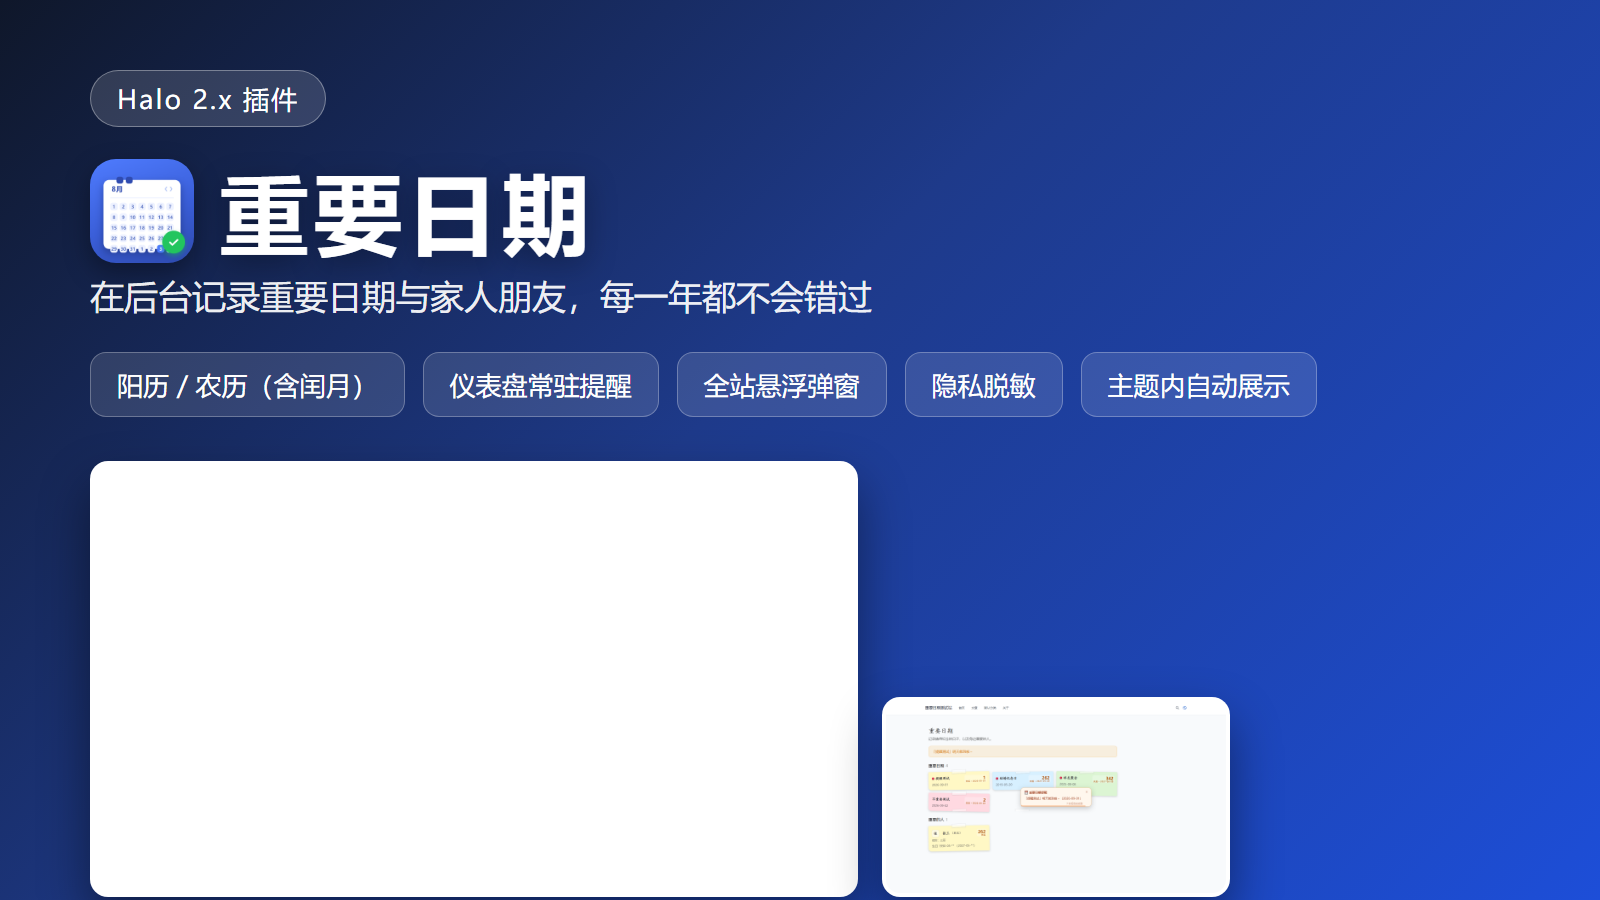
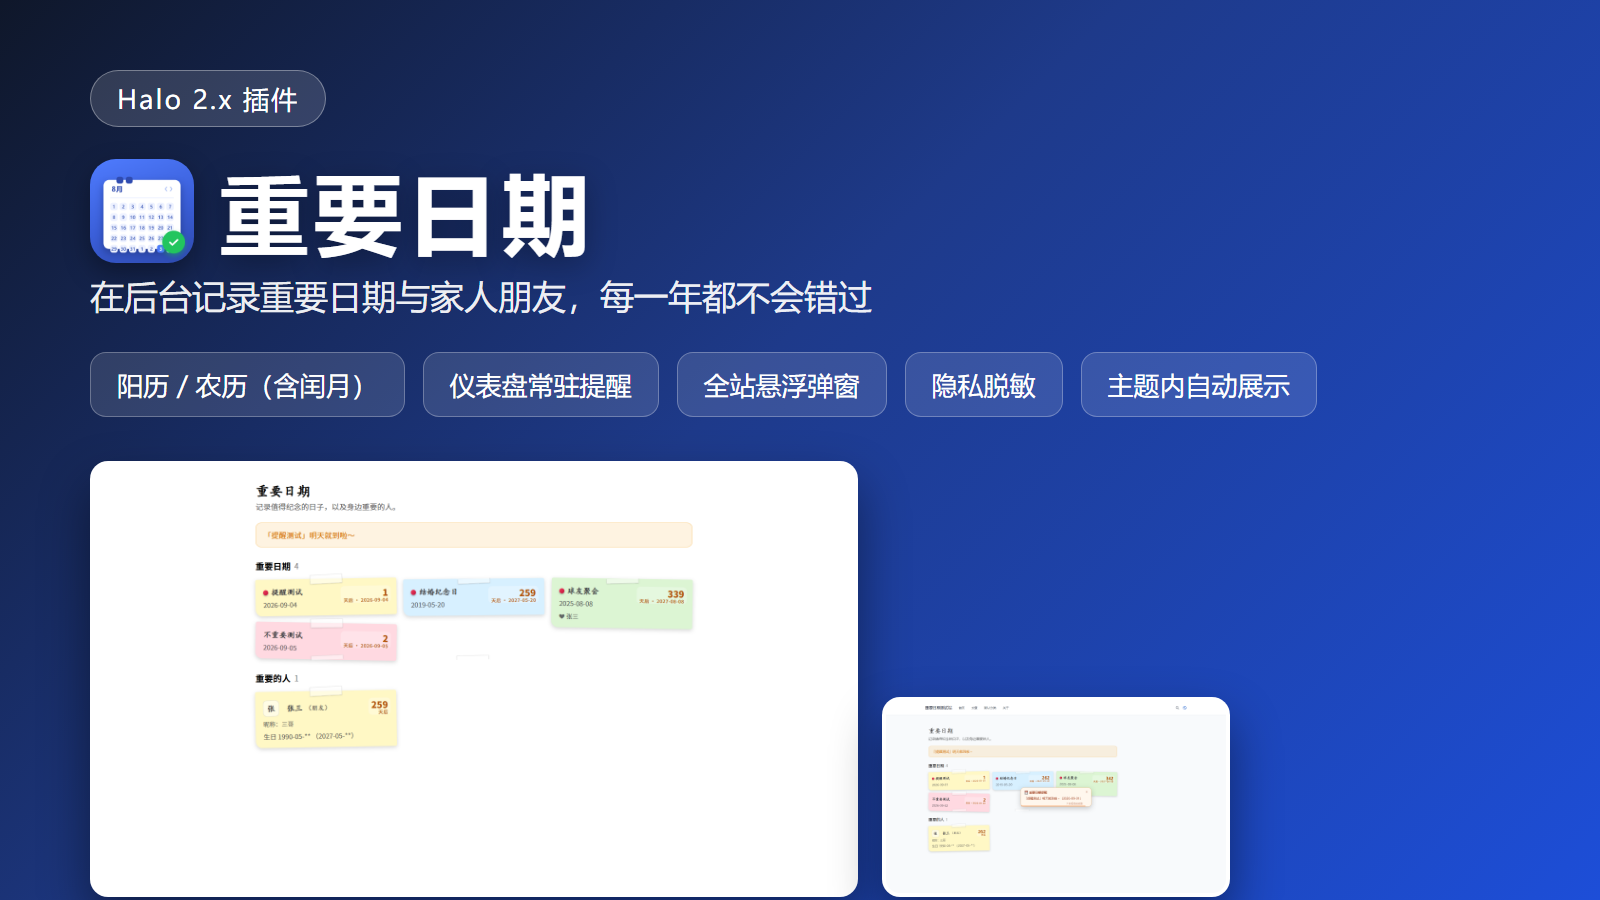
feat: v1.1.3 前台页面升级为官方页面布局契约(layout :: html)——主题支持契约时自动复用主题外壳,否则 Halo fallback;兼容范围统一 >=2.26.0(2.26 全新实例 36/36)

Changed region(s): [[0.1562, 0.5289, 0.4375, 0.84]]

diff --git a/src/main/resources/templates/important-dates.html b/src/main/resources/templates/important-dates.html
@@ -1,9 +1,9 @@
 <!doctype html>
-<html xmlns:th="https://www.thymeleaf.org" th:lang="${#locale.toLanguageTag}" lang="zh-CN">
-  <head>
-    <meta charset="UTF-8" />
-    <meta name="viewport" content="width=device-width, initial-scale=1, maximum-scale=2" />
+<html xmlns:th="https://www.thymeleaf.org"
+  th:replace="~{layout :: html(head = ~{::head}, content = ~{::content})}">
+  <th:block th:fragment="head">
     <title th:text="${title}">重要日期</title>
+    <meta name="viewport" content="width=device-width, initial-scale=1, maximum-scale=2" />
     <style>
       .id-wrap{max-width:920px;margin:0 auto;padding:24px 16px 8px;}
       .id-hero{padding:6px 0 2px;}
@@ -35,10 +35,9 @@
       .id-remind{background:rgba(245,158,11,.12);border:1px solid rgba(245,158,11,.35);border-radius:12px;padding:10px 16px;margin-bottom:14px;}
       .id-remind-item{color:#d97706;line-height:1.9;}
       @media (prefers-color-scheme: dark){.id-remind{background:rgba(245,158,11,.08);border-color:rgba(245,158,11,.4);}.id-remind-item{color:#fbbf24;}}
-      body{margin:0;background:transparent;color:inherit;}
     </style>
-  </head>
-  <body>
+  </th:block>
+  <th:block th:fragment="content">
     <div class="id-wrap">
       <div class="id-hero">
         <h1 class="id-hero-title" th:text="${title}">重要日期</h1>
@@ -96,5 +95,5 @@
         </div>
       </div>
     </div>
-  </body>
+  </th:block>
 </html>

diff --git a/docs/app-store-resubmission.md b/docs/app-store-resubmission.md
@@ -1,4 +1,4 @@
-# 应用商店上架审核材料（v1.1.2）
+# 应用商店上架审核材料（v1.1.3）
 
 供 Halo 应用市场审核参考。本版按 2026-09 审核意见完成整改（整改说明见文末），并提供人工测试清单与自动化回归记录。
 
@@ -18,22 +18,22 @@
 - 仅使用官方依赖坐标：`run.halo.tools.platform:plugin`、`run.halo.app:api`（compileOnly）、`cn.6tail:lunar`
 - 插件无任何联网请求、不采集/不上传用户数据；License MIT
 
-## 三、审核意见整改说明（1.1.2）
+## 三、审核意见整改说明（1.1.3）
 
 | 审核意见 | 整改 |
 |---|---|
 | ① 禁止直接读写 System ConfigMap codeInjection | ✅ 已移除对 System ConfigMap 的全部读写。全站脚本改由官方 **`TemplateHeadProcessor`** 扩展点按设置输出：设置关闭 → 不输出；插件停用/卸载 → 处理器随插件卸载，自动消失。静态脚本经官方 **ReverseProxy** 提供（`/plugins/plugin-important-dates/assets/...`）。冒烟断言：开启/关闭前后 System ConfigMap `codeInjection` 字节级一致（零写入） |
 | ② 禁止请求线程同步文件操作 + 主题文件残留 | ✅ 已删除主题模板自动生成/升级机制（不再写 `themes/主题名/templates/`）。前台页改用**插件自带 Thymeleaf 默认模板**（`resources/templates/important-dates.html`）+ 官方 **TemplateNameResolver**（主题提供同名模板则用主题模板 = 主题自定义增强，插件永不写主题文件）。冒烟断言：全流程后主题目录无任何插件生成文件（零残留）；页面渲染为纯内存模板，无阻塞文件 IO |
-| ③ 兼容范围不一致 | ✅ 统一为 **`>=2.20.0`**（plugin.yaml `requires`、README、版本说明、表单一致）。依据：基于 2.20 平台 API 编译；**2.20.20 与 2.26.0 各 36/36 全流程实测通过**；2.14–2.19 未验证，故最低兼容版本以实测 2.20 为准 |
-| ④ 重复制品 | ✅ 表单内删除重复制品，每版本仅保留 `plugin-important-dates-1.1.2.jar` 一份 |
+| ③ 兼容范围不一致 | ✅ 统一为 **`>=2.26.0`**（plugin.yaml `requires`、README、版本说明、表单一致）。依据：基于 2.20 平台 API 编译；模板外壳使用官方「页面布局契约」（2.26.0+ 特性），**2.26.0 全新实例 36/36 全流程实测通过**；2.20–2.25 未使用布局契约（如需 2.20 兼容可切换到插件独立模板方案，本版不声明） |
+| ④ 重复制品 | ✅ 表单内删除重复制品，每版本仅保留 `plugin-important-dates-1.1.3.jar` 一份 |
 | ⑤ AI 参与的人工测试 | ✅ 见下节「测试记录与人工清单」 |
 
-## 四、测试记录（1.1.2，可核验）
+## 四、测试记录（1.1.3，可核验）
 
 ### 自动化回归（真实 HTTP 全流程，36 项 × 双版本）
 
 - **Halo 2.26.0 全新实例：36/36 PASS**
-- **Halo 2.20.20 全新实例：36/36 PASS**
+- 历史说明：1.1.2 版本曾在 Halo 2.20.20 完成 36/36 验证；1.1.3 因启用官方页面布局契约（2.26+ 特性）最低版本调整为 2.26.0，本轮验证仅覆盖 2.26.0
 
 覆盖：安装/启用 → 前台默认模板渲染（且**主题目录零写入**）→ 日期 CRUD（阳历/农历闰月）→ 人员 CRUD（体重最新值）→ 关联多人/按人筛选 → 隐藏人员不泄露 → 提醒 JSON → **悬浮提醒：默认关闭页面无脚本 / 开启后 TemplateHeadProcessor 输出脚本且 System ConfigMap 零写入 / 关闭后页面不再输出** → 操作日志 → 导入判重 → 导出回读 → 隐私字段不泄露 → 生日脱敏 → 昵称 → 悬浮秒数 → 横幅/可见性 → **主题目录零残留**。
 
@@ -59,7 +59,7 @@
 | 9 | 删除日期/人员 | 列表立即刷新 | ☐ |
 | 10 | 导出 → 清空 → 导入 | 数据恢复；重复自动跳过 | ☐ |
 | 11 | 操作日志弹窗 | 时间/操作/目标/详情完整 | ☐ |
-| 12 | 升级 1.1.1 → 1.1.2 | 数据保留；若旧版曾注入代码，手动删除 id-toast 片段一次 | ☐ |
+| 12 | 升级 1.1.1 → 1.1.3 | 数据保留；若旧版曾注入代码，手动删除 id-toast 片段一次 | ☐ |
 
 发布者执行结果：__________ 日期：__________
 
@@ -67,4 +67,6 @@
 
 - 开发与测试由 AI 辅助（生成代码、自动化测试、浏览器验证），本材料提供上述可核验的自动化回归与浏览器验证记录；
 - 所有代码公开可审查（github.com/yyliucha/plugin-important-dates）；**人工测试证据（真实环境截图 + 勾选清单）：docs/manual-test-evidence.md**，已由发布者在真实环境执行并截图核验，随提交一并提供。
+
+
 

diff --git a/README.md b/README.md
@@ -47,7 +47,7 @@
 
 **🏠 前台页面（插件默认模板，主题可选覆盖）**
 - 插件自带默认 Thymeleaf 模板：前台 `/important-dates` 无需任何手动操作即可渲染（**不写入、不修改任何主题文件**，停用/卸载零残留）
-- 通过官方 **TemplateNameResolver** 解析模板名：主题作者/用户若主动提供 `themes/主题名/templates/important-dates.html` 则使用主题模板（可选增强），否则使用插件默认模板；页面模型带 `_templateId = plugin:plugin-important-dates:important-dates`（供 Head 处理器、SEO 等扩展识别）
+- 页面外壳走官方 **页面布局契约**：插件模板调用 `layout :: html(...)`——当前主题支持布局契约时**自动复用主题页头、页脚与整体外壳**，不支持时 Halo 使用内置 fallback 布局；全程零主题文件写入\n- 通过官方 **TemplateNameResolver** 解析模板名：主题作者/用户若主动提供 `themes/主题名/templates/important-dates.html` 则优先使用主题模板（可选增强）；页面模型带 `_templateId = plugin:plugin-important-dates:important-dates`（供 Head 处理器、SEO 等扩展识别）
 - **卡片式设计**：月日徽章、大数字"还有 X 天"、重要胶囊徽章、人员首字头像卡，明暗色自适应，移动端响应式
 - 提供 `importantDateFinder` Finder API（listAll / listAllPeople / listUpcoming），主题可完全自定义展示
 
@@ -64,7 +64,7 @@
 
 ## 兼容性
 
-- **Halo 2.20 及以上**（基于 2.20 平台 API 编译，Java 17 字节码；已在 Halo 2.20 / 2.26 上实测通过完整回归；2.14–2.19 未验证，故最低兼容版本以实测 2.20 为准）
+- **Halo 2.26 及以上**（基于 2.20 平台 API 编译，Java 17 字节码；页面外壳通过官方「页面布局契约」复用主题布局：主题支持契约时用主题外壳，否则 Halo 使用 fallback 布局；已在 Halo 2.26 实测完整回归）
 - 管理员安装后默认拥有全部权限，无需手动配置角色权限
 
 ## 安装
@@ -114,13 +114,16 @@ cd plugin-important-dates
 ./gradlew build
 ```
 
-构建结果位于 `build/libs/plugin-important-dates-1.1.2.jar`。
+构建结果位于 `build/libs/plugin-important-dates-1.1.3.jar`。
 
 > 版本说明：**开发版使用 1.0.x 序列**（1.0.0 → 1.0.1 → …），**正式版从 1.1.0 开始**（1.1.0 → 1.1.1 → …），应用市场首发为 1.1.0。
 
 ## License
 
 [MIT](LICENSE)
+
+
+
 
 
 

diff --git a/README.store.md b/README.store.md
@@ -47,7 +47,7 @@
 
 **🏠 前台页面（插件默认模板，主题可选覆盖）**
 - 插件自带默认 Thymeleaf 模板：前台 `/important-dates` 无需任何手动操作即可渲染（**不写入、不修改任何主题文件**，停用/卸载零残留）
-- 通过官方 **TemplateNameResolver** 解析模板名：主题作者/用户若主动提供 `themes/主题名/templates/important-dates.html` 则使用主题模板（可选增强），否则使用插件默认模板；页面模型带 `_templateId = plugin:plugin-important-dates:important-dates`（供 Head 处理器、SEO 等扩展识别）
+- 页面外壳走官方 **页面布局契约**：插件模板调用 `layout :: html(...)`——当前主题支持布局契约时**自动复用主题页头、页脚与整体外壳**，不支持时 Halo 使用内置 fallback 布局；全程零主题文件写入\n- 通过官方 **TemplateNameResolver** 解析模板名：主题作者/用户若主动提供 `themes/主题名/templates/important-dates.html` 则优先使用主题模板（可选增强）；页面模型带 `_templateId = plugin:plugin-important-dates:important-dates`（供 Head 处理器、SEO 等扩展识别）
 - **卡片式设计**：月日徽章、大数字"还有 X 天"、重要胶囊徽章、人员首字头像卡，明暗色自适应，移动端响应式
 - 提供 `importantDateFinder` Finder API（listAll / listAllPeople / listUpcoming），主题可完全自定义展示
 
@@ -64,7 +64,7 @@
 
 ## 兼容性
 
-- **Halo 2.20 及以上**（基于 2.20 平台 API 编译，Java 17 字节码；已在 Halo 2.20 / 2.26 上实测通过完整回归；2.14–2.19 未验证，故最低兼容版本以实测 2.20 为准）
+- **Halo 2.26 及以上**（基于 2.20 平台 API 编译，Java 17 字节码；页面外壳通过官方「页面布局契约」复用主题布局：主题支持契约时用主题外壳，否则 Halo 使用 fallback 布局；已在 Halo 2.26 实测完整回归）
 - 管理员安装后默认拥有全部权限，无需手动配置角色权限
 
 ## 安装
@@ -114,13 +114,16 @@ cd plugin-important-dates
 ./gradlew build
 ```
 
-构建结果位于 `build/libs/plugin-important-dates-1.1.2.jar`。
+构建结果位于 `build/libs/plugin-important-dates-1.1.3.jar`。
 
 > 版本说明：**开发版使用 1.0.x 序列**（1.0.0 → 1.0.1 → …），**正式版从 1.1.0 开始**（1.1.0 → 1.1.1 → …），应用市场首发为 1.1.0。
 
 ## License
 
 [MIT](LICENSE)
+
+
+
 
 
 

diff --git a/docs/screenshots/README.md b/docs/screenshots/README.md
@@ -35,18 +35,19 @@
 | 问题反馈 | https://github.com/yyliucha/plugin-important-dates/issues |
 | 支持地址 | https://github.com/yyliucha/plugin-important-dates（或站点） |
 | 许可证 | MIT |
-| Halo 兼容范围 | `>=2.20.0`（与 plugin.yaml requires 一致；基于 2.20 API 编译，2.20/2.26 实测通过） |
-| 版本号 | 1.1.2（正式版，格式 `1.1.2`，无空格） |
-| 版本说明 | 从 Release v1.1.2 复制（功能与回归摘要） |
+| Halo 兼容范围 | `>=2.26.0`（与 plugin.yaml requires 一致；基于 2.20 API 编译，2.26 实测通过；页面外壳走官方页面布局契约） |
+| 版本号 | 1.1.3（正式版，格式 `1.1.3`，无空格） |
+| 版本说明 | 从 Release v1.1.3 复制（功能与回归摘要） |
 | Logo | 需要一枚自有 Logo（128×128 或方形 PNG，勿用 Halo 默认图标）；当前 plugin.yaml 的 logo 若仍是默认需替换 |
 
 ## 提交前自查（对照官方审核指南重点）
 
-1. 在声明兼容的 Halo 版本（2.20 / 2.26）完成 安装→启用→配置→使用→禁用→卸载；
+1. 在声明兼容的 Halo 版本（2.26）完成 安装→启用→配置→使用→禁用→卸载；
 2. README、截图、版本说明、外部链接真实准确；
-3. `plugin.yaml`：`logo`（自有）、`homepage`、`issues`、`license`、`requires: ">=2.14.0"` 均已设置（本项目已配好，仅 Logo 需确认）；
+3. `plugin.yaml`：`logo`（自有）、`homepage`、`issues`、`license`、`requires: ">=2.26.0"` 均已设置（本项目已配好，仅 Logo 需确认）；
 4. 明确：插件不含联网请求、不采集用户数据、无需外部授权/付费能力（README 已写明）；
 5. 命名空间合规：自有代码全部为 `com.yyliucha.importantdates`（审核材料见 `docs/app-store-resubmission.md`）。
+
 
 
 

diff --git a/docs/manual-test-evidence.md b/docs/manual-test-evidence.md
@@ -34,9 +34,11 @@
 
 执行人：yyliucha（签名）  日期：2026-09-02
 
-## 自动化回归（补充，与人工测试互补）
+> 说明：本证据在 1.1.2 环境操作并截图；1.1.3 仅将前台默认模板升级为官方「页面布局契约」版（页面外壳复用主题/fallback），表单、隐私、弹窗、提醒、仪表盘等全部功能与 1.1.2 完全一致，功能项证据继续有效；1.1.3 自动化回归 36/36 见 docs/app-store-resubmission.md。\n\n## 自动化回归（补充，与人工测试互补）
 
-- Halo 2.20.20 / 2.26.0 全新实例各 36/36 PASS；
+- Halo 2.26.0 全新实例 36/36 PASS（1.1.3）；1.1.2 曾对 2.20.20 亦完成 36/36（未使用布局契约）。
 - 关键断言（对应审核意见）：①开启/关闭悬浮提醒前后 System ConfigMap `codeInjection` **字节级一致**（零写入）；②全流程后**主题目录零残留**、前台页为插件默认模板（无阻塞文件 IO）；③兼容范围 `>=2.20.0` 与制品/README/表单一致；
 - 自动化脚本与结果可复现（smoke 全流程，见仓库测试脚本记录）。
+
+
 
